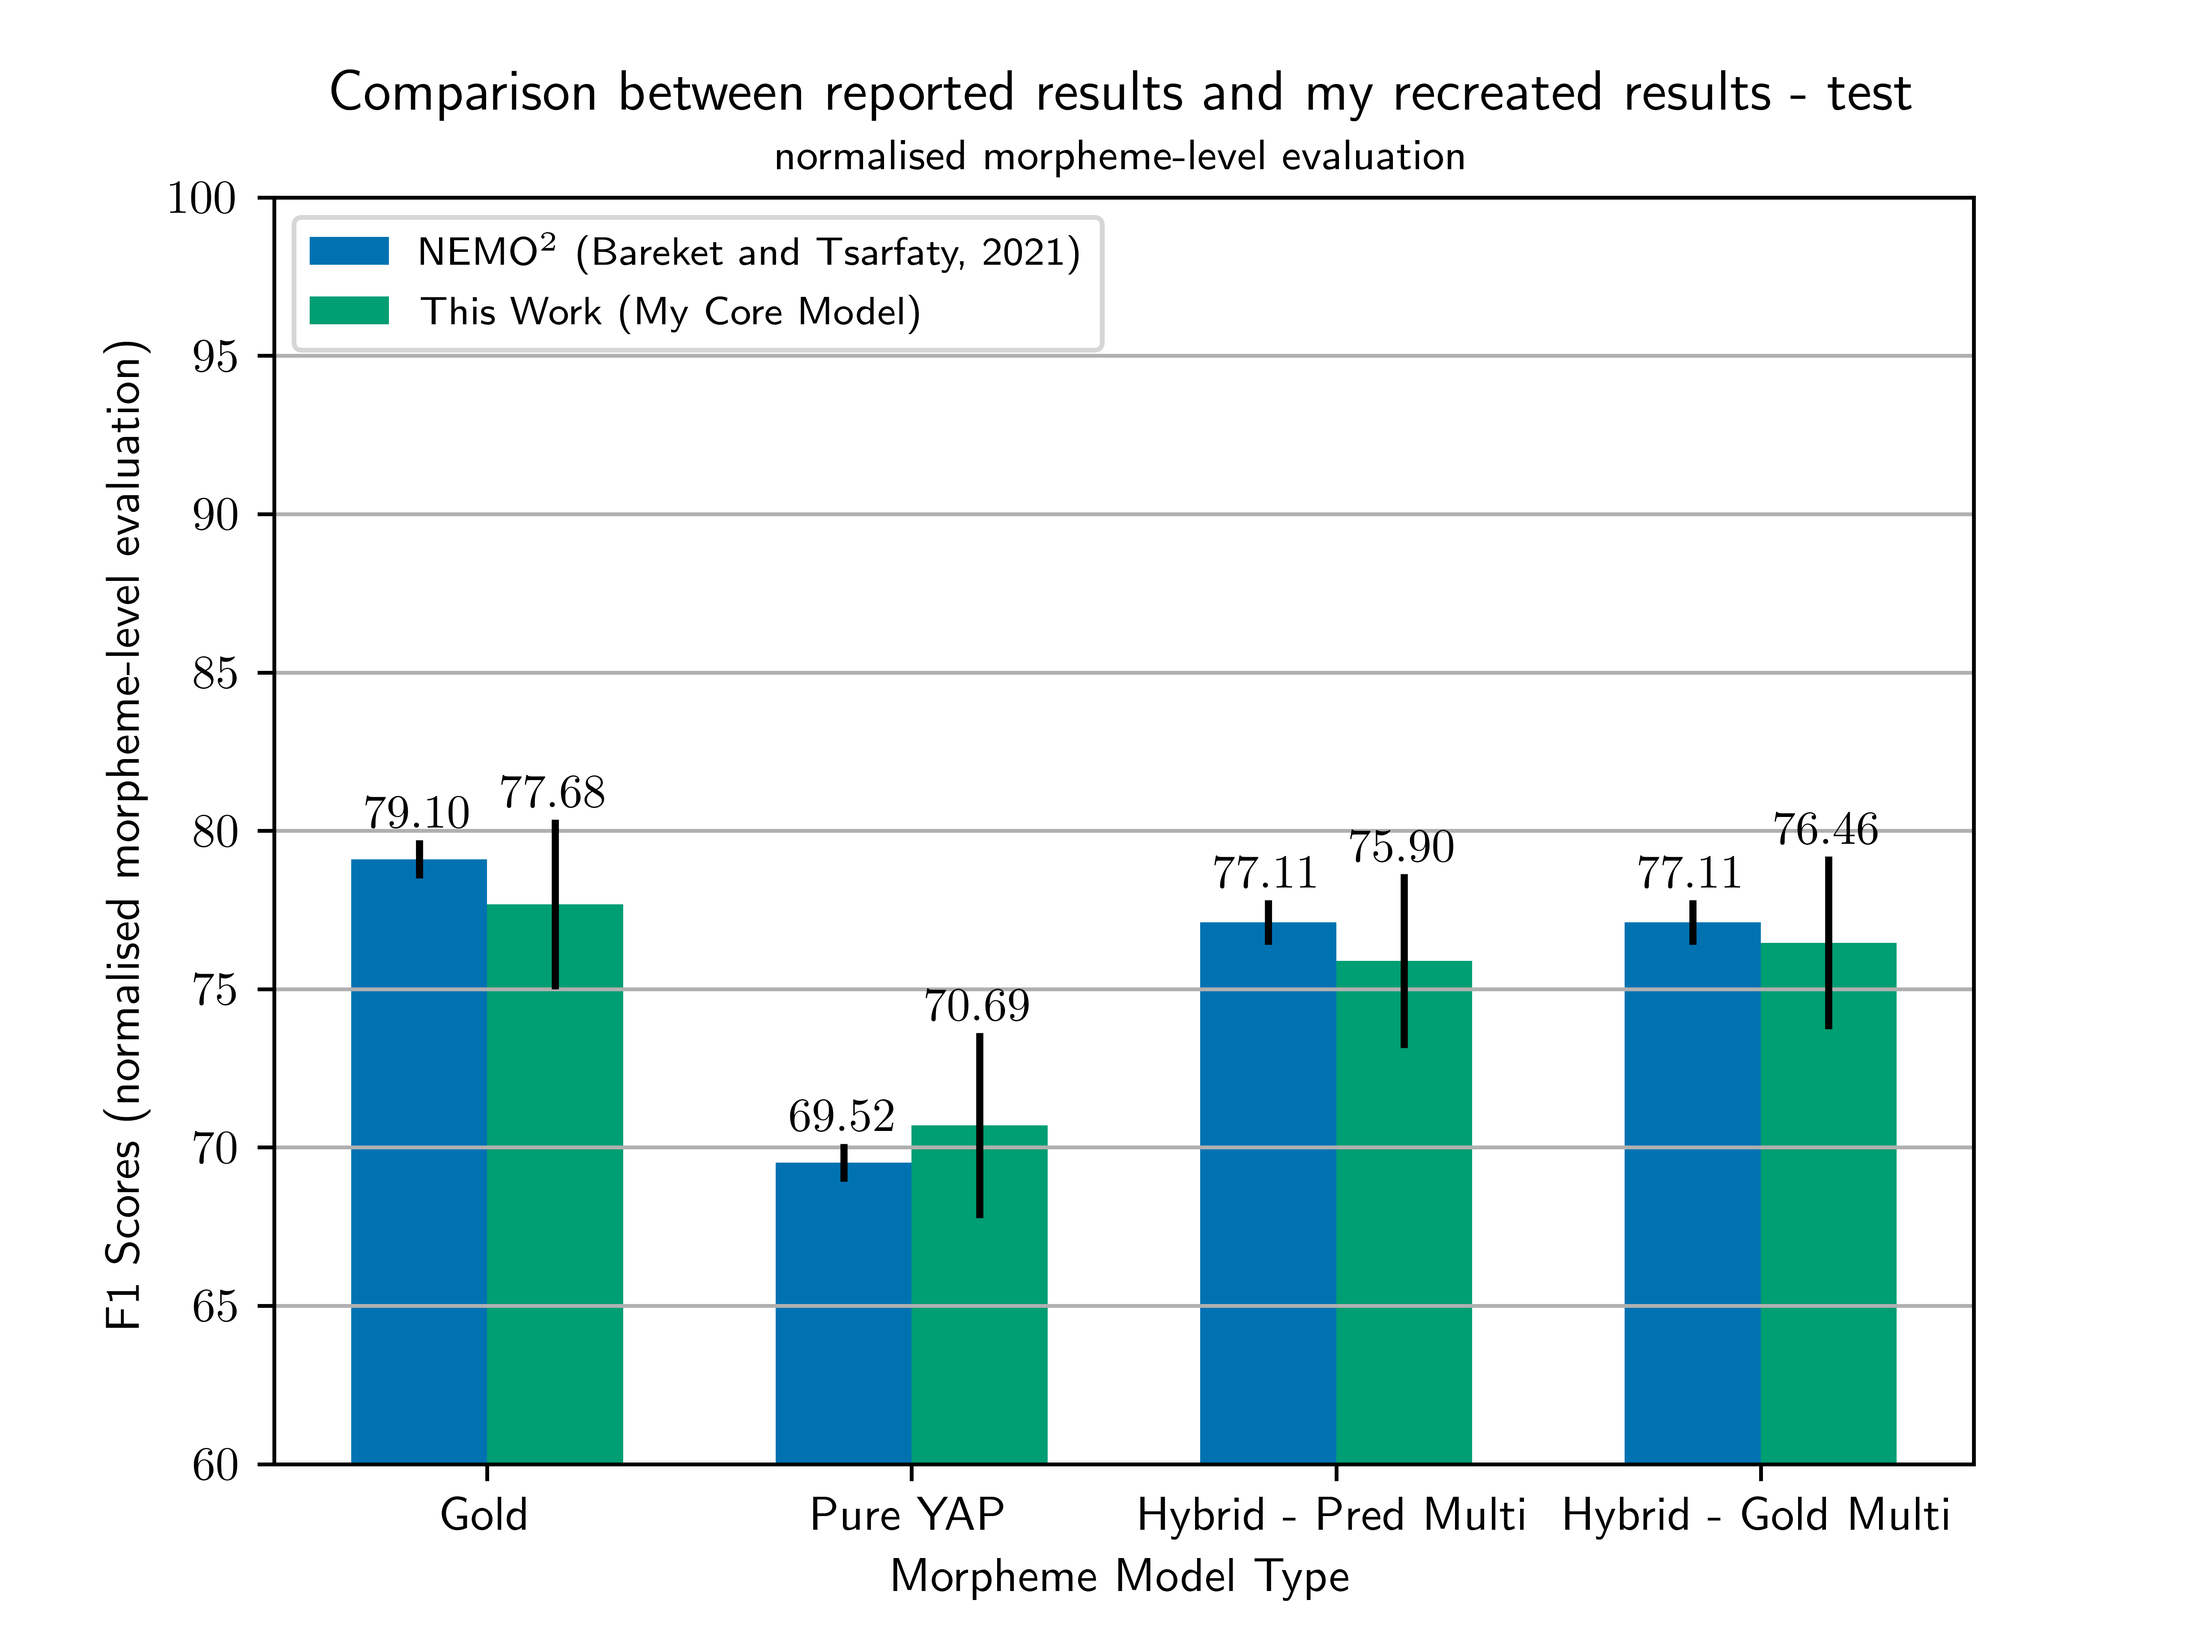
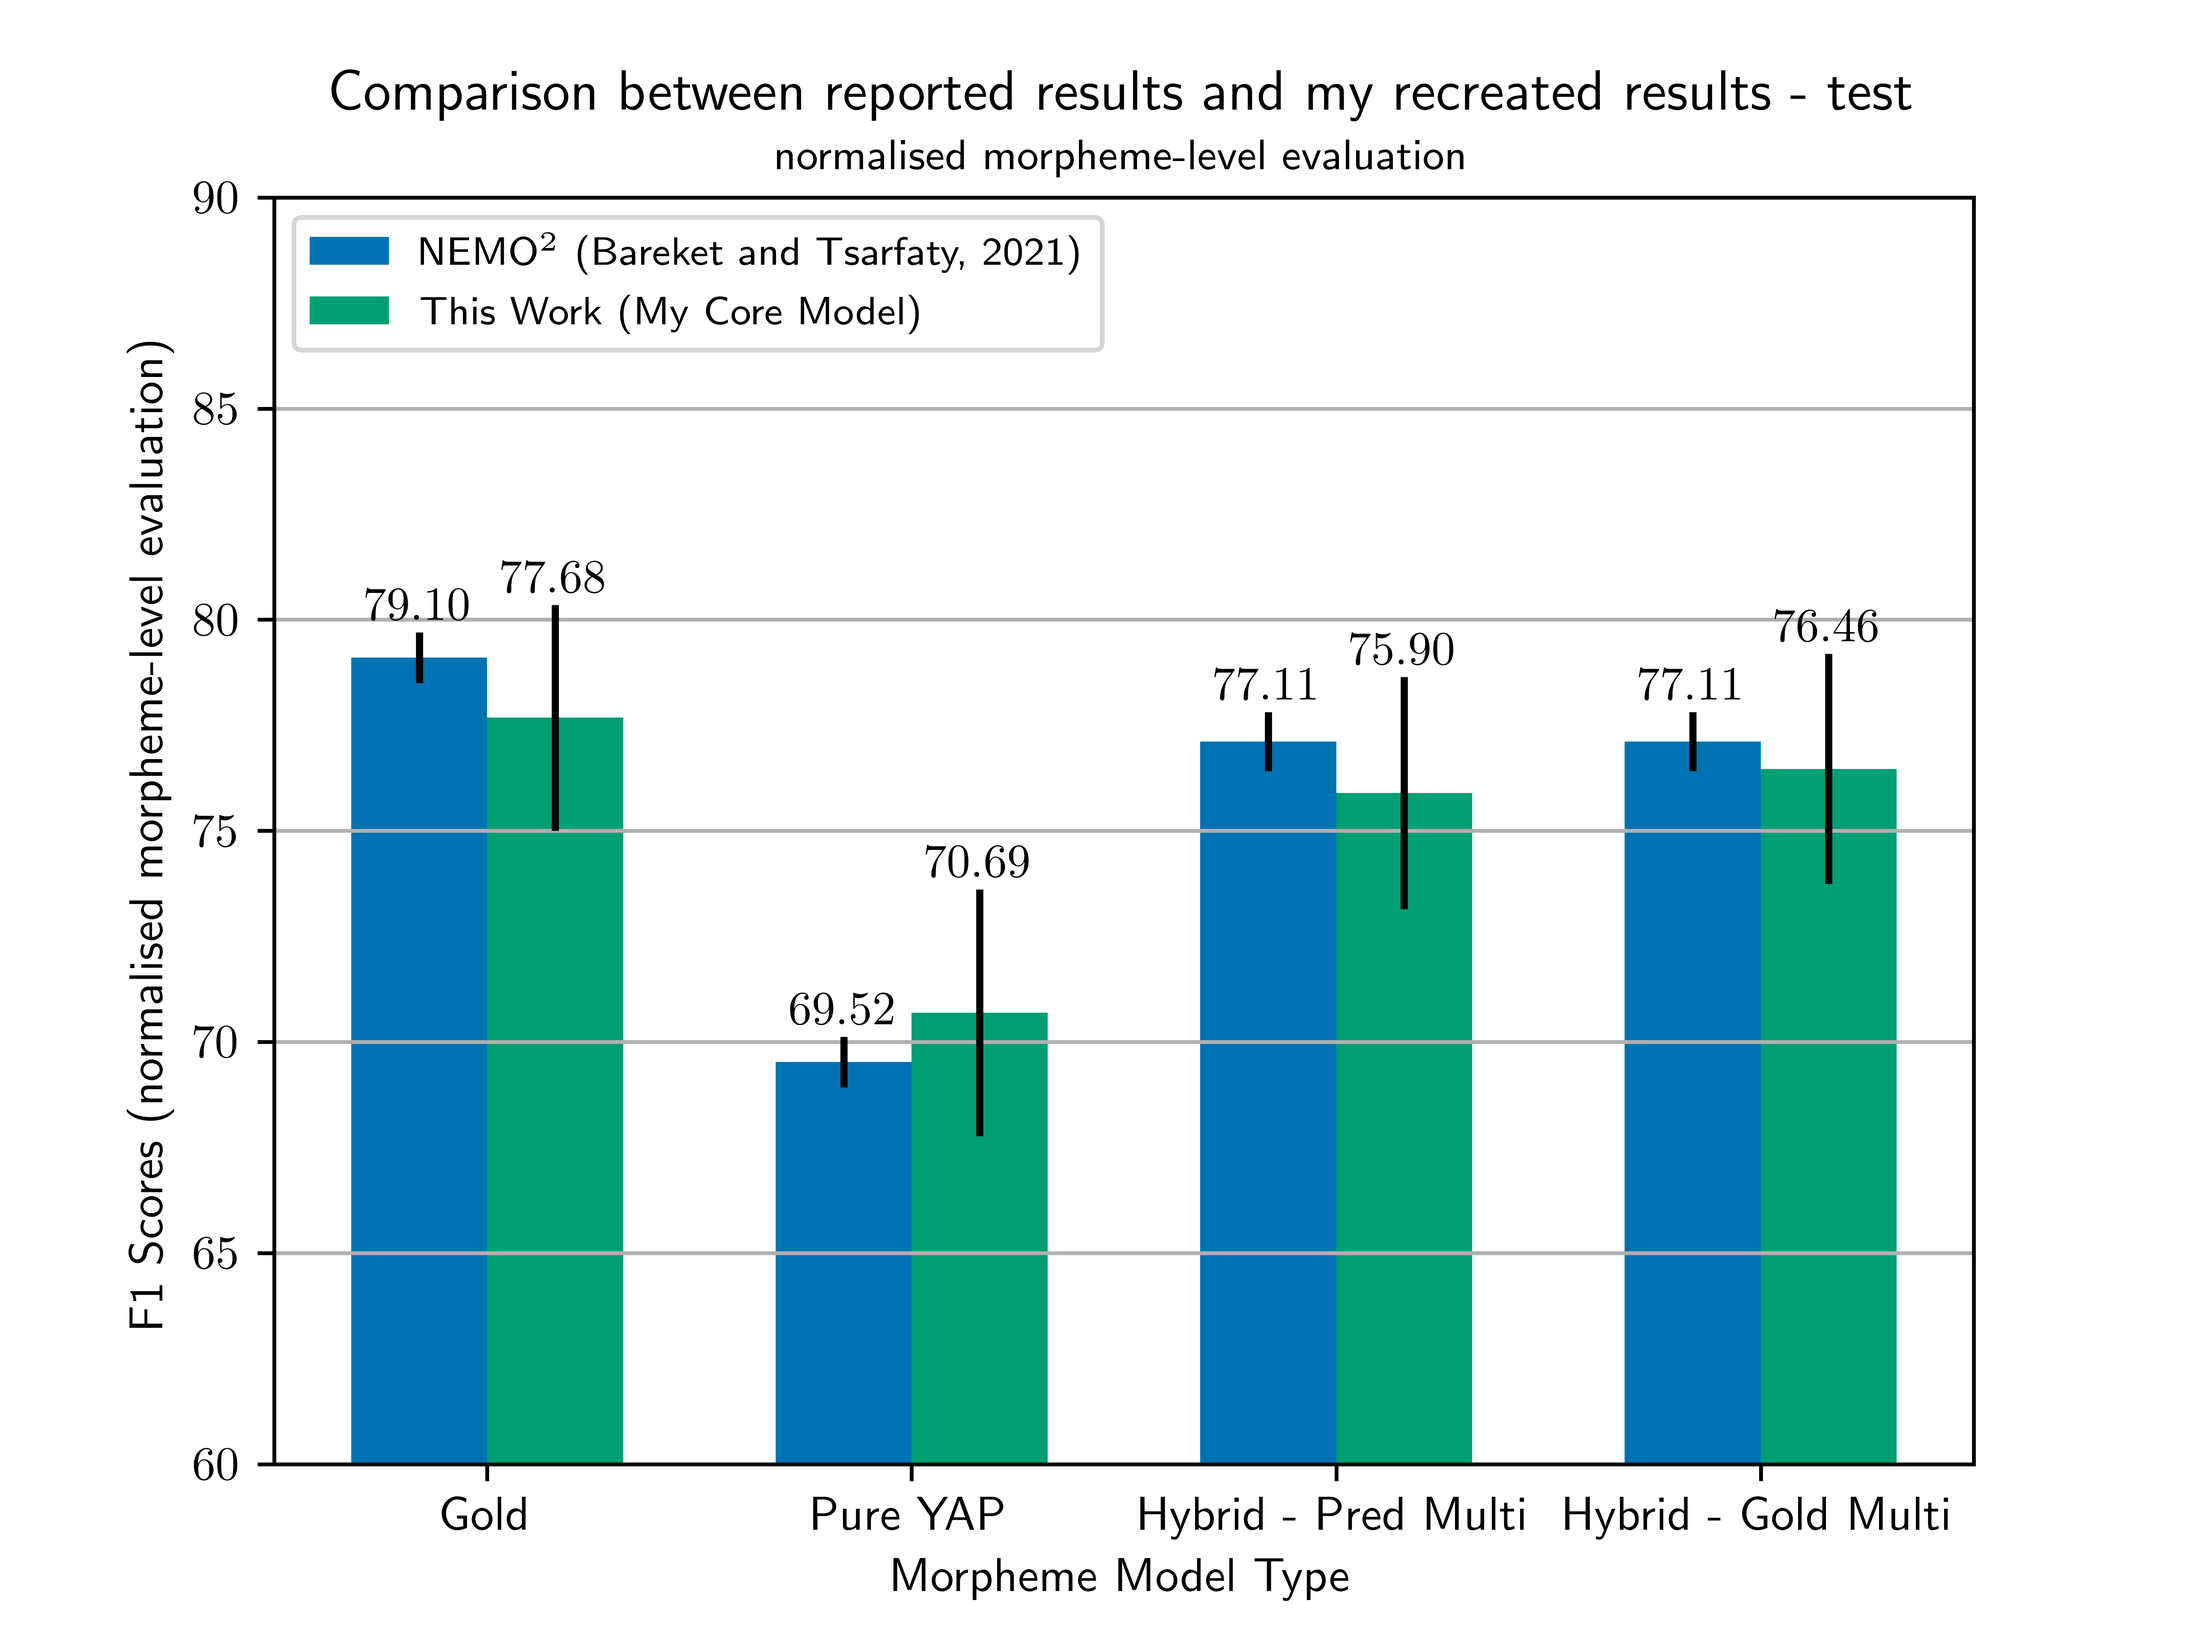
more zoomed

diff --git a/utils/eval/graphing/comp.py b/utils/eval/graphing/comp.py
@@ -46,7 +46,7 @@ def base_comp_graph(categories, orig_values, orig_label, compared_values, compar
     ax.set_ylabel(y_label)
     ax.set_title(title)
     
-    ax.set_ylim(60, 100) # percentage scores
+    ax.set_ylim(60, 90) # percentage scores
     ax.set_xticks(orig_positions + bar_width / 2, 
                   labels=categories)
     
